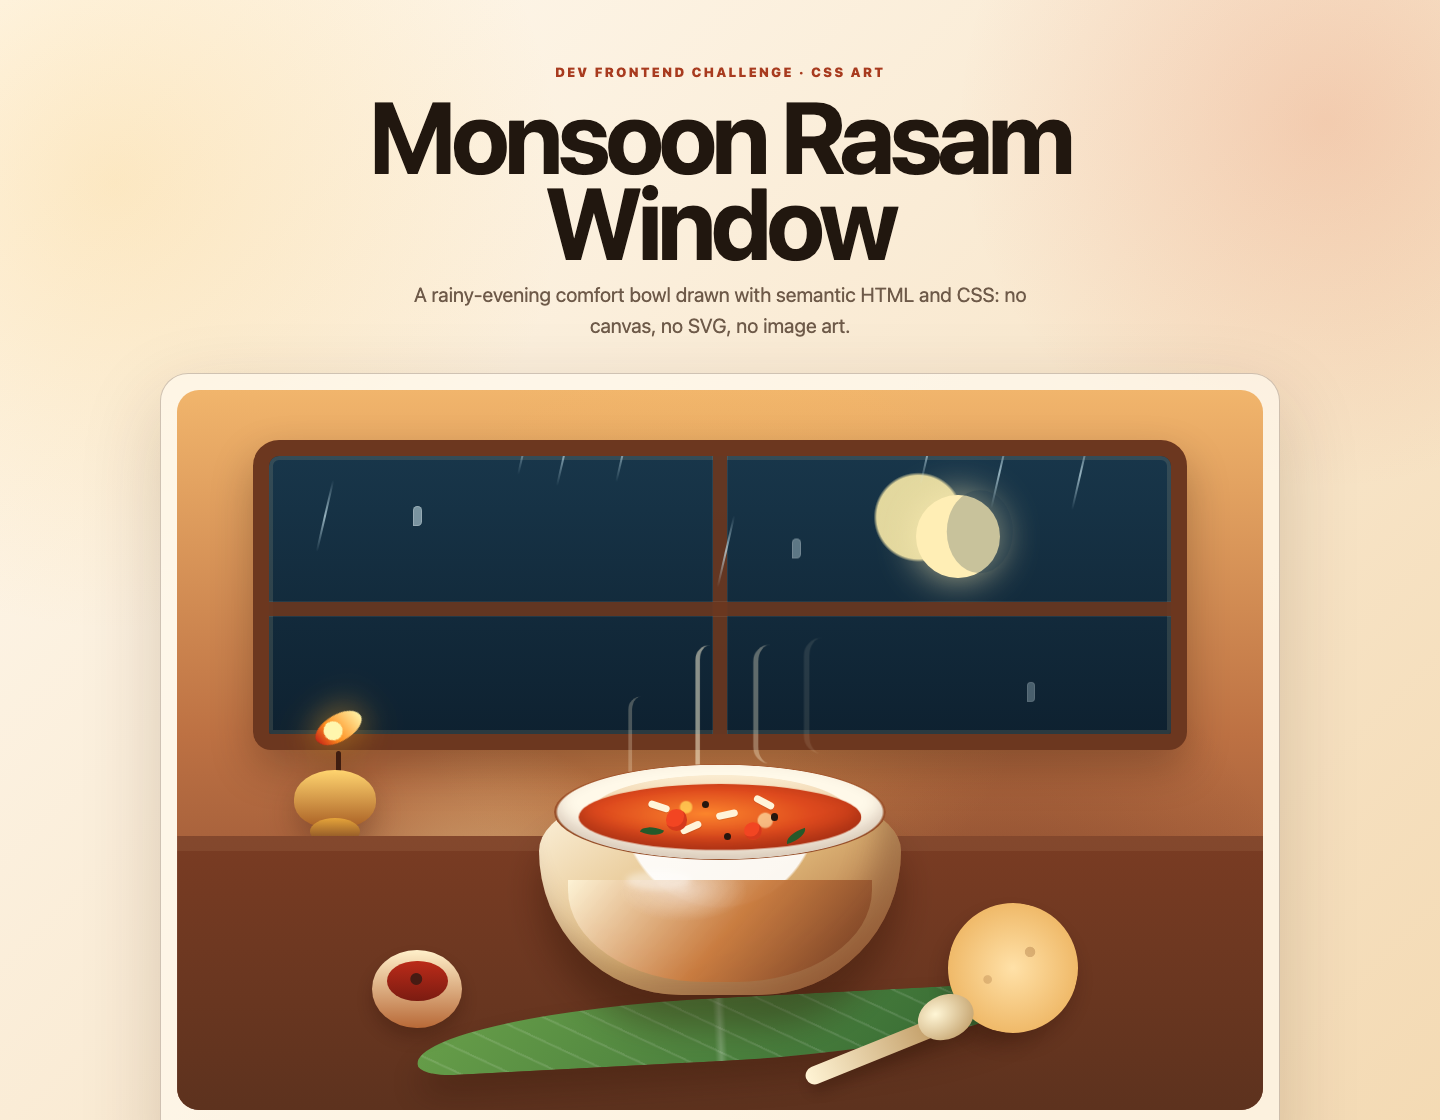
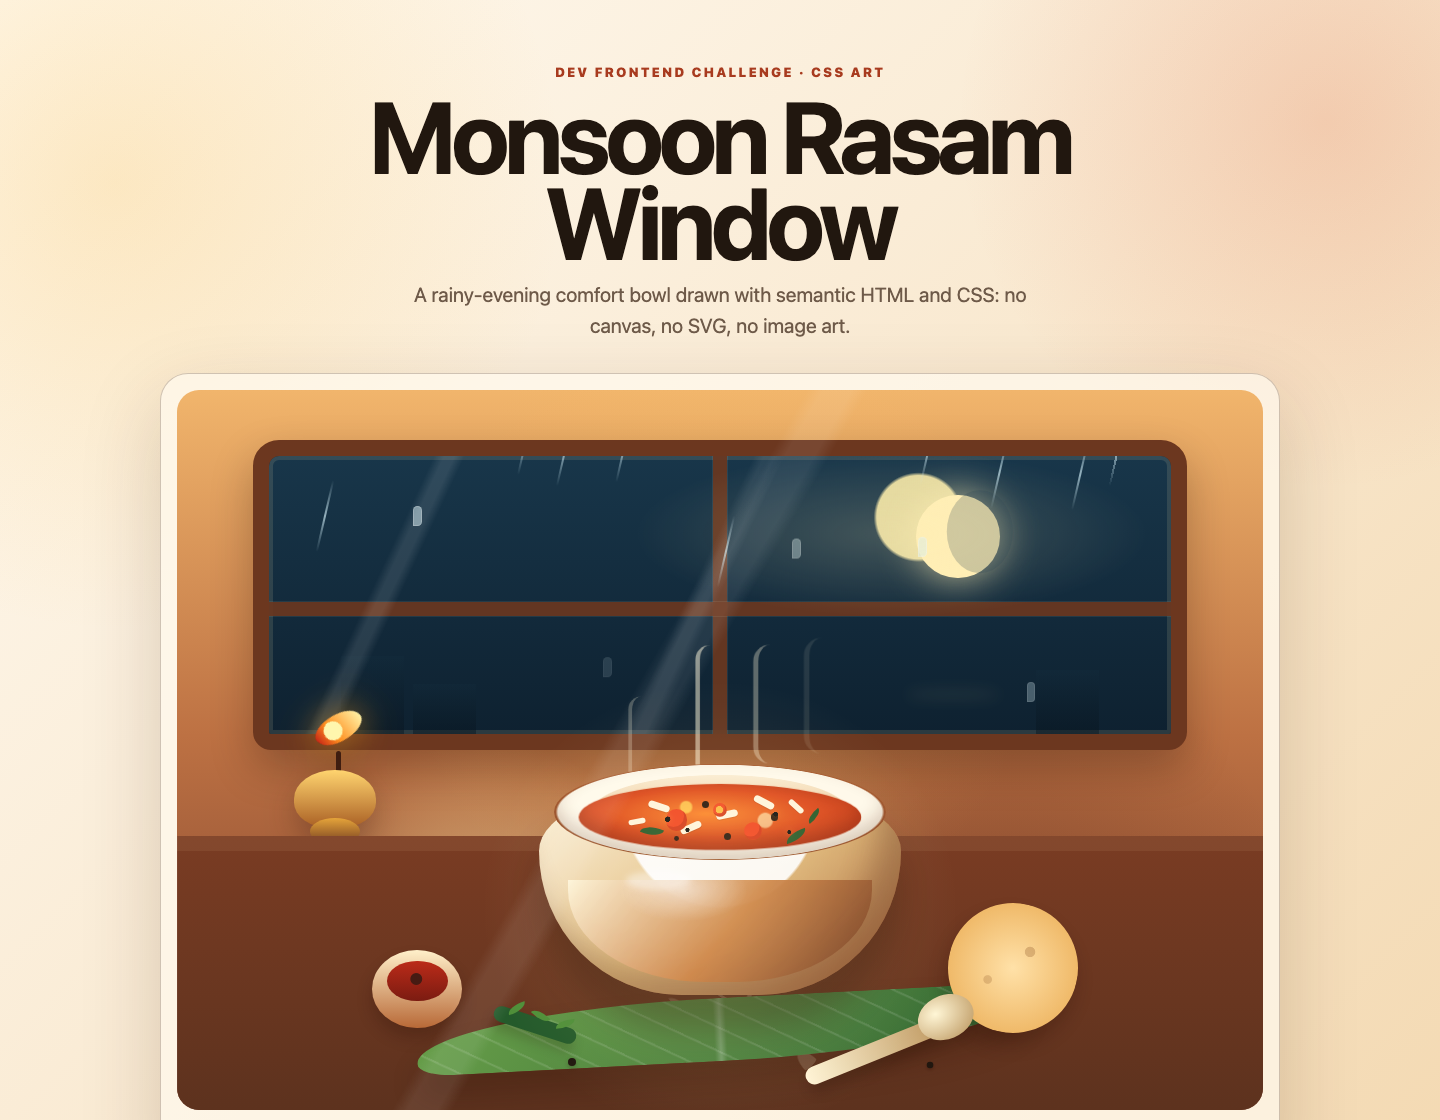
Enhance monsoon rasam CSS art detail

Changed region(s): [[0.4375, 0.4062, 0.6562, 0.6562], [0.3438, 0.875, 0.4062, 0.9375], [0.4062, 0.7188, 0.4375, 0.75]]

diff --git a/css-art/styles.css b/css-art/styles.css
@@ -139,6 +139,17 @@ h1 span {
     radial-gradient(circle at 76% 75%, rgba(94, 45, 28, 0.32), transparent 18rem);
 }
 
+.art-frame::after {
+  content: "";
+  position: absolute;
+  inset: 0;
+  pointer-events: none;
+  background:
+    radial-gradient(ellipse at 50% 72%, rgba(255, 225, 151, 0.18), transparent 31%),
+    linear-gradient(120deg, transparent 0 42%, rgba(255, 255, 255, 0.08) 43% 45%, transparent 46% 100%);
+  mix-blend-mode: screen;
+}
+
 .window {
   position: absolute;
   left: 7%;
@@ -154,6 +165,39 @@ h1 span {
   box-shadow:
     inset 0 0 0 4px rgba(255, 235, 185, 0.12),
     0 18px 42px rgba(33, 16, 8, 0.28);
+}
+
+.window::after {
+  content: "";
+  position: absolute;
+  inset: 0;
+  pointer-events: none;
+  background:
+    linear-gradient(115deg, transparent 0 16%, rgba(255, 255, 255, 0.1) 17% 18%, transparent 19% 47%, rgba(255, 255, 255, 0.08) 48% 49%, transparent 50%),
+    radial-gradient(ellipse at 69% 28%, rgba(255, 238, 181, 0.2), transparent 16rem);
+}
+
+.skyline {
+  position: absolute;
+  bottom: 0;
+  width: 7%;
+  background: linear-gradient(180deg, rgba(26, 56, 73, 0.2), rgba(7, 20, 30, 0.72));
+  opacity: 0.64;
+}
+
+.k1 {
+  left: 8%;
+  height: 28%;
+}
+
+.k2 {
+  left: 16%;
+  height: 18%;
+}
+
+.k3 {
+  right: 8%;
+  height: 23%;
 }
 
 .moon {
@@ -174,6 +218,18 @@ h1 span {
   border-radius: 50%;
   background: rgba(24, 54, 74, 0.24);
   transform: translate(0.8rem, -0.3rem);
+}
+
+.moon-reflection {
+  position: absolute;
+  right: 18%;
+  bottom: 12%;
+  width: 7rem;
+  height: 0.7rem;
+  border-radius: 50%;
+  background: rgba(255, 239, 171, 0.28);
+  filter: blur(7px);
+  animation: reflection-pulse 3.8s ease-in-out infinite;
 }
 
 .window-cross {
@@ -216,6 +272,10 @@ h1 span {
 .r8 { left: 83%; top: -39%; animation-delay: -220ms; }
 .r9 { left: 91%; top: -20%; animation-delay: -820ms; }
 .r10 { left: 35%; top: -50%; animation-delay: -270ms; }
+.r11 { left: 14%; top: -48%; animation-delay: -760ms; }
+.r12 { left: 47%; top: -54%; animation-delay: -510ms; }
+.r13 { left: 69%; top: -49%; animation-delay: -940ms; }
+.r14 { left: 96%; top: -44%; animation-delay: -160ms; }
 
 .droplet {
   position: absolute;
@@ -230,6 +290,8 @@ h1 span {
 .d1 { left: 16%; top: 18%; }
 .d2 { left: 58%; top: 12%; animation-delay: -1.8s; }
 .d3 { left: 84%; top: 34%; animation-delay: -2.7s; }
+.d4 { left: 37%; top: 8%; animation-delay: -3.4s; transform: scale(0.72); }
+.d5 { left: 72%; top: 28%; animation-delay: -0.9s; transform: scale(0.82); }
 
 .table {
   position: absolute;
@@ -239,6 +301,23 @@ h1 span {
     linear-gradient(90deg, rgba(255, 255, 255, 0.05) 0 1px, transparent 1px 6rem),
     linear-gradient(180deg, #7a3c23 0%, var(--wood) 100%);
   box-shadow: inset 0 15px 0 rgba(255, 223, 165, 0.08);
+}
+
+.kolam {
+  position: absolute;
+  left: 50%;
+  bottom: 2%;
+  width: min(26vw, 260px);
+  aspect-ratio: 1;
+  border-radius: 50%;
+  opacity: 0.28;
+  transform: translateX(-50%) rotate(45deg) scaleY(0.42);
+  background:
+    radial-gradient(circle, transparent 0 19%, rgba(255, 241, 205, 0.85) 20% 22%, transparent 23%),
+    radial-gradient(circle at 50% 0%, rgba(255, 241, 205, 0.72) 0 6%, transparent 7%),
+    radial-gradient(circle at 100% 50%, rgba(255, 241, 205, 0.72) 0 6%, transparent 7%),
+    radial-gradient(circle at 50% 100%, rgba(255, 241, 205, 0.72) 0 6%, transparent 7%),
+    radial-gradient(circle at 0% 50%, rgba(255, 241, 205, 0.72) 0 6%, transparent 7%);
 }
 
 .banana-leaf {
@@ -328,6 +407,8 @@ h1 span {
 .g2 { left: 49%; top: 14%; transform: rotate(-12deg); }
 .g3 { left: 59%; top: 8%; transform: rotate(28deg); }
 .g4 { left: 39%; top: 20%; transform: rotate(-24deg); }
+.g5 { left: 68%; top: 10%; transform: rotate(42deg) scale(0.82); }
+.g6 { left: 24%; top: 17%; transform: rotate(-10deg) scale(0.78); }
 
 .tomato {
   width: 1.35rem;
@@ -339,6 +420,7 @@ h1 span {
 
 .t1 { left: 35%; top: 13%; }
 .t2 { left: 56%; top: 18%; transform: scale(0.8); }
+.t3 { left: 47%; top: 8%; transform: scale(0.62); }
 
 .pepper {
   width: 0.45rem;
@@ -350,6 +432,8 @@ h1 span {
 .p1 { left: 45%; top: 9%; }
 .p2 { left: 64%; top: 15%; }
 .p3 { left: 51%; top: 24%; }
+.p4 { left: 70%; top: 24%; transform: scale(0.78); }
+.p5 { left: 37%; top: 25%; transform: scale(0.7); }
 
 .leaf {
   width: 1.35rem;
@@ -360,6 +444,24 @@ h1 span {
 
 .l1 { left: 28%; top: 21%; transform: rotate(22deg); }
 .l2 { left: 68%; top: 23%; transform: rotate(-18deg); }
+.l3 { left: 73%; top: 14%; transform: rotate(-38deg) scale(0.75); }
+
+.tempering {
+  position: absolute;
+  left: 31%;
+  top: 6%;
+  z-index: 2;
+  width: 42%;
+  height: 26%;
+  border-radius: 50%;
+  background:
+    radial-gradient(circle at 11% 45%, #111 0 0.16rem, transparent 0.18rem),
+    radial-gradient(circle at 24% 64%, #111 0 0.12rem, transparent 0.14rem),
+    radial-gradient(circle at 82% 36%, #111 0 0.14rem, transparent 0.16rem),
+    radial-gradient(circle at 91% 68%, #111 0 0.11rem, transparent 0.13rem),
+    radial-gradient(circle at 45% 28%, rgba(255, 219, 76, 0.76) 0 0.22rem, transparent 0.24rem);
+  filter: drop-shadow(0 0 3px rgba(255, 213, 79, 0.35));
+}
 
 .bowl-front {
   position: absolute;
@@ -434,6 +536,44 @@ h1 span {
     radial-gradient(circle at 48% 45%, #461b13 0 0.34rem, transparent 0.4rem),
     linear-gradient(180deg, #bb2b19, #7b1b11);
 }
+
+.pepper-scatter {
+  position: absolute;
+  width: 0.52rem;
+  aspect-ratio: 1;
+  border-radius: 50%;
+  background: #21170f;
+  box-shadow: 0 2px 4px rgba(32, 12, 3, 0.26);
+}
+
+.ps1 { left: 36%; bottom: 16%; }
+.ps2 { left: 69%; bottom: 15%; transform: scale(0.82); }
+.ps3 { right: 30%; bottom: 32%; transform: scale(0.72); }
+
+.curry-sprig {
+  position: absolute;
+  left: 29%;
+  bottom: 28%;
+  width: min(9vw, 86px);
+  height: 1rem;
+  border-radius: 999px;
+  background: #245a2b;
+  transform: rotate(18deg);
+  box-shadow: 0 8px 12px rgba(32, 12, 3, 0.18);
+}
+
+.curry-sprig span {
+  position: absolute;
+  top: -0.42rem;
+  width: 1.2rem;
+  height: 0.58rem;
+  border-radius: 100% 0;
+  background: #4f8f39;
+}
+
+.curry-sprig span:nth-child(1) { left: 13%; transform: rotate(-35deg); }
+.curry-sprig span:nth-child(2) { left: 42%; transform: rotate(28deg); }
+.curry-sprig span:nth-child(3) { right: 6%; transform: rotate(-20deg); }
 
 .spoon {
   position: absolute;
@@ -606,6 +746,18 @@ h1 span {
   50% {
     filter: saturate(1.16) brightness(1.04);
     transform: scale(1.012);
+  }
+}
+
+@keyframes reflection-pulse {
+  0%,
+  100% {
+    opacity: 0.2;
+    transform: scaleX(0.82);
+  }
+  50% {
+    opacity: 0.46;
+    transform: scaleX(1.05);
   }
 }
 

diff --git a/css-art/index.html b/css-art/index.html
@@ -49,7 +49,11 @@
           </p>
 
           <div class="window" aria-hidden="true">
+            <span class="skyline k1"></span>
+            <span class="skyline k2"></span>
+            <span class="skyline k3"></span>
             <span class="moon"></span>
+            <span class="moon-reflection"></span>
             <span class="window-cross vertical"></span>
             <span class="window-cross horizontal"></span>
             <span class="rain r1"></span>
@@ -62,9 +66,15 @@
             <span class="rain r8"></span>
             <span class="rain r9"></span>
             <span class="rain r10"></span>
+            <span class="rain r11"></span>
+            <span class="rain r12"></span>
+            <span class="rain r13"></span>
+            <span class="rain r14"></span>
             <span class="droplet d1"></span>
             <span class="droplet d2"></span>
             <span class="droplet d3"></span>
+            <span class="droplet d4"></span>
+            <span class="droplet d5"></span>
           </div>
 
           <div class="lamp" aria-hidden="true">
@@ -75,9 +85,14 @@
           </div>
 
           <div class="table" aria-hidden="true">
+            <span class="kolam"></span>
             <span class="banana-leaf"></span>
             <span class="papad"></span>
             <span class="pickle-cup"><span></span></span>
+            <span class="pepper-scatter ps1"></span>
+            <span class="pepper-scatter ps2"></span>
+            <span class="pepper-scatter ps3"></span>
+            <span class="curry-sprig"><span></span><span></span><span></span></span>
             <span class="spoon"></span>
           </div>
 
@@ -93,13 +108,20 @@
               <span class="rice-grain g2"></span>
               <span class="rice-grain g3"></span>
               <span class="rice-grain g4"></span>
+              <span class="rice-grain g5"></span>
+              <span class="rice-grain g6"></span>
               <span class="tomato t1"></span>
               <span class="tomato t2"></span>
+              <span class="tomato t3"></span>
               <span class="pepper p1"></span>
               <span class="pepper p2"></span>
               <span class="pepper p3"></span>
+              <span class="pepper p4"></span>
+              <span class="pepper p5"></span>
               <span class="leaf l1"></span>
               <span class="leaf l2"></span>
+              <span class="leaf l3"></span>
+              <span class="tempering"></span>
               <span class="bowl-front"></span>
               <span class="shine"></span>
             </div>

diff --git a/dev-post-css-art.md b/dev-post-css-art.md
@@ -46,7 +46,10 @@ The main artwork is drawn with CSS:
 
 - bowl, rim, rasam surface, rice grains, tomatoes, pepper, and curry leaves
 - banana leaf, papad, pickle cup, spoon, and brass lamp
-- rainy window with moon glow, falling rain, and sliding droplets
+- rainy window with moon glow, skyline silhouettes, glass reflections, falling
+  rain, and sliding droplets
+- table details including a faint kolam pattern, scattered pepper, and curry
+  sprig
 - CSS-only steam, rasam shimmer, rain, droplet, and flame animations
 - depth through radial gradients, inset shadows, layered positioning, and blur
 
